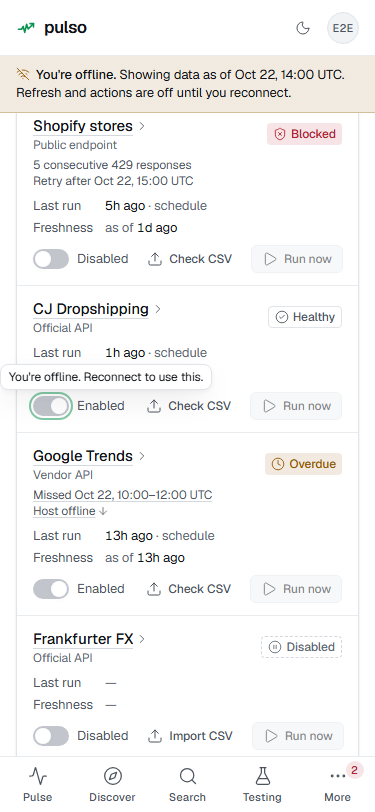
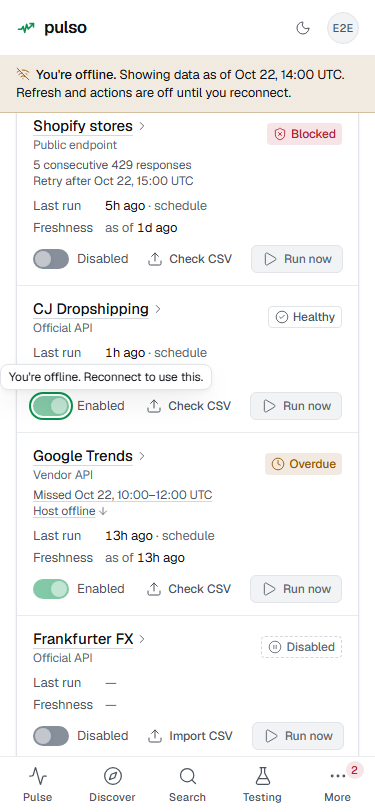
fix(web): locked controls keep a 3:1 focus ring; switch track follows aria-checked (imp-134)
Offline-locked Refresh, Run now and the source switches dim with tokens, not
opacity, like DEC-185's import buttons: the light-theme ring on Refresh went from
1.96:1 to 3.97:1. A tooltip trigger replaces the switch's data-state, so its track
now keys on aria-checked; online it looks as before.

diff --git a/apps/web/src/components/data-health/sources-table.tsx b/apps/web/src/components/data-health/sources-table.tsx
@@ -172,7 +172,8 @@ export function SourcesPanel({ now, onOpen, onImport }: { now: number; onOpen: (
           // aria-disabled (not disabled) while saving keeps keyboard focus on the switch when its change fails.
           aria-disabled={saving(s) || !online}
           aria-label={`${s.name} enabled`}
-          className="aria-disabled:cursor-not-allowed"
+          // The track and thumb dim, not the switch, so its focus ring keeps 3:1 while locked (DEC-185, DEC-206).
+          className="aria-disabled:cursor-not-allowed aria-disabled:opacity-100 aria-disabled:aria-checked:bg-brand/50 aria-disabled:*:opacity-50"
         />
       </TapTooltip>
     ),
@@ -452,8 +453,9 @@ function RunButton({ name, blocker, pending, onRun }: { name: string; blocker: s
       size="sm"
       variant="secondary"
       aria-disabled={blocker != null || pending}
-      // aria-disabled (not disabled) keeps the button focusable and hoverable so its reason shows.
-      className="aria-disabled:pointer-events-auto aria-disabled:cursor-not-allowed"
+      // aria-disabled (not disabled) keeps the button focusable and hoverable so its reason shows. Dimmed with a
+      // token, not opacity, so its focus ring keeps 3:1 (DEC-185, DEC-206).
+      className="aria-disabled:pointer-events-auto aria-disabled:cursor-not-allowed aria-disabled:text-subtle-foreground aria-disabled:opacity-100"
       onClick={() => blocker == null && !pending && onRun()}
       aria-label={`Run ${name} now`}
     >

diff --git a/apps/web/src/components/ui/switch.tsx b/apps/web/src/components/ui/switch.tsx
@@ -6,13 +6,14 @@ import { Switch as SwitchPrimitive } from "radix-ui";
 import { cn } from "@/lib/utils";
 
 // On/off control (vault Design/Component Inventory). The thumb slides with transform only; the global
-// reduced-motion rule makes it instant.
+// reduced-motion rule makes it instant. The track follows aria-checked: a tooltip trigger wrapping the switch
+// replaces its data-state with the tooltip's (imp-134).
 function Switch({ className, ...props }: React.ComponentProps<typeof SwitchPrimitive.Root>) {
   return (
     <SwitchPrimitive.Root
       className={cn(
         "relative hit-area inline-flex h-5 w-9 shrink-0 items-center rounded-full transition-colors duration-(--duration-fast) ease-standard",
-        "bg-input data-[state=checked]:bg-brand disabled:opacity-50 aria-disabled:opacity-50",
+        "bg-input aria-checked:bg-brand disabled:opacity-50 aria-disabled:opacity-50",
         className,
       )}
       {...props}

diff --git a/apps/web/src/components/data-health/data-health.tsx b/apps/web/src/components/data-health/data-health.tsx
@@ -56,7 +56,8 @@ export function DataHealth() {
             variant="secondary"
             onClick={() => online && void refresh()}
             aria-disabled={fetching || !online}
-            className="aria-disabled:pointer-events-auto aria-disabled:cursor-not-allowed"
+            // Dimmed with a token, not opacity, so its focus ring keeps 3:1 while locked (DEC-185, DEC-206).
+            className="aria-disabled:pointer-events-auto aria-disabled:cursor-not-allowed aria-disabled:text-subtle-foreground aria-disabled:opacity-100"
           >
             <RotateCw className={cn(fetching && "motion-safe:animate-spin")} aria-hidden />
             {fetching ? "Refreshing…" : "Refresh"}
